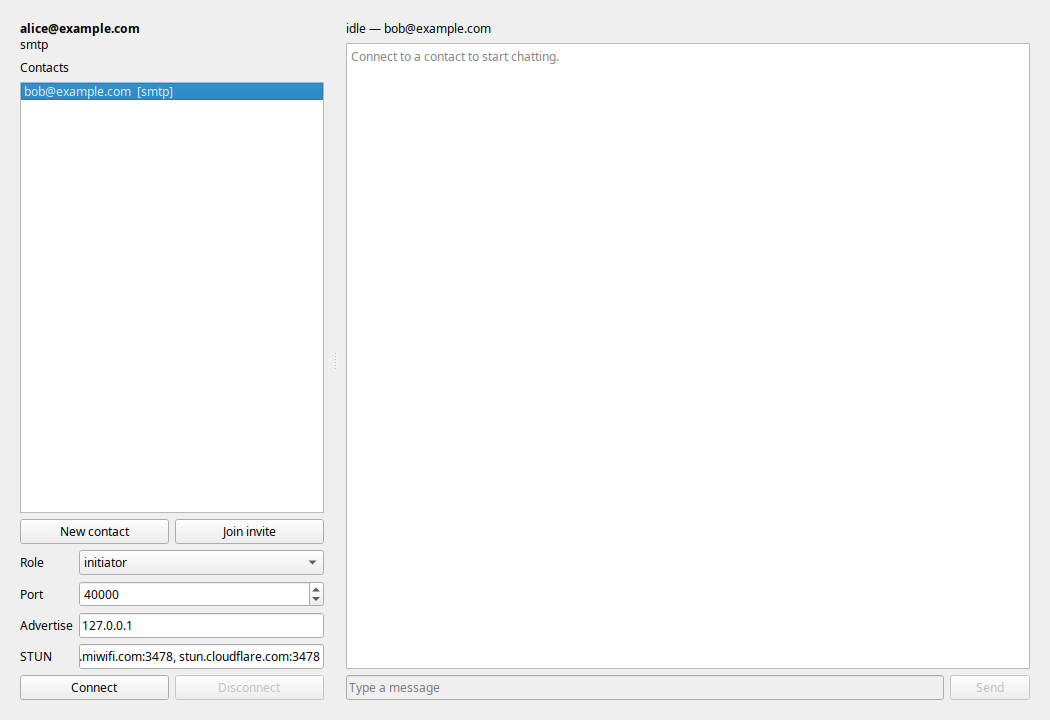
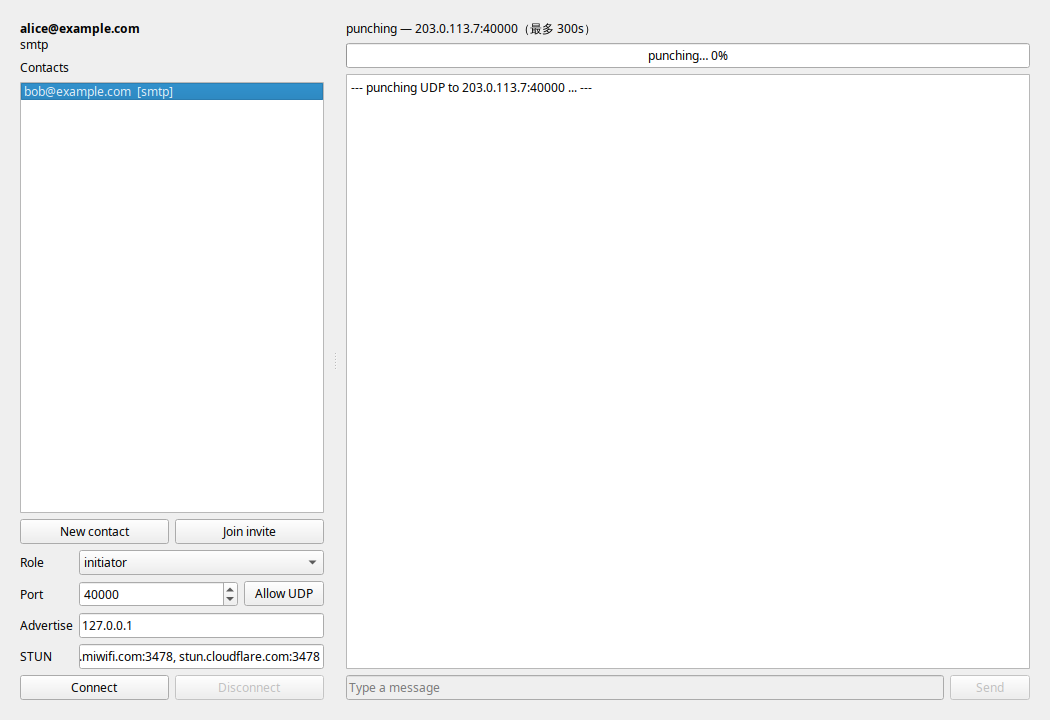
feat: punching progress and firewall helper

Changed region(s): [[0.3352, 0.0306, 0.5486, 0.1528], [0.2133, 0.7944, 0.3048, 0.8556], [0.6095, 0.0611, 0.701, 0.0917]]

diff --git a/p2p/gui/app.py b/p2p/gui/app.py
@@ -1,11 +1,15 @@
 from __future__ import annotations
 
+import os
+import shutil
 import sys
+import time
 from pathlib import Path
 
-from PyQt6.QtCore import Qt
+from PyQt6.QtCore import Qt, QTimer
 from PyQt6.QtWidgets import (
     QApplication,
+    QCheckBox,
     QComboBox,
     QDialog,
     QFileDialog,
@@ -18,6 +22,7 @@ from PyQt6.QtWidgets import (
     QListWidgetItem,
     QMessageBox,
     QPlainTextEdit,
+    QProgressBar,
     QPushButton,
     QSpinBox,
     QSplitter,
@@ -31,6 +36,43 @@ from p2p.runtime_env import apply_vault_env
 from p2p.vault import default_vault_path, load_vault, save_vault
 
 from .worker import SessionWorker
+
+
+class FirewallDialog(QDialog):
+    """Confirm opening one UDP port in the host firewall."""
+
+    def __init__(self, port: int, parent=None) -> None:
+        super().__init__(parent)
+        self.setWindowTitle("StrayPigeon — allow UDP port")
+        self.resize(500, 240)
+        self.allow_public = QCheckBox("Also allow on public networks (less safe)")
+        if os.name != "nt":
+            self.allow_public.setVisible(False)
+        if os.name == "nt":
+            detail = (
+                "Windows will show a UAC prompt. Only this UDP port is opened; "
+                "the firewall is not disabled."
+            )
+        else:
+            detail = (
+                "StrayPigeon cannot change the system firewall without root. "
+                "The next dialog shows the command to run yourself."
+            )
+        text = QLabel(f"Open inbound UDP {port} in the local firewall?\n\n{detail}")
+        text.setWordWrap(True)
+        cancel = QPushButton("Cancel")
+        cancel.clicked.connect(self.reject)
+        allow = QPushButton("Continue")
+        allow.setDefault(True)
+        allow.clicked.connect(self.accept)
+        buttons = QHBoxLayout()
+        buttons.addStretch(1)
+        buttons.addWidget(cancel)
+        buttons.addWidget(allow)
+        layout = QVBoxLayout(self)
+        layout.addWidget(text)
+        layout.addWidget(self.allow_public)
+        layout.addLayout(buttons)
 
 
 class VaultDialog(QDialog):
@@ -138,9 +180,15 @@ class MainWindow(QWidget):
         self.port.setValue(40000)
         self.advertise = QLineEdit("127.0.0.1")
         self.stun = QLineEdit("stun.miwifi.com:3478, stun.cloudflare.com:3478")
+        self.firewall_btn = QPushButton("Allow UDP")
+        self.firewall_btn.setToolTip("Open the local firewall for the UDP port above")
+        self.firewall_btn.clicked.connect(self._allow_firewall)
+        port_row = QHBoxLayout()
+        port_row.addWidget(self.port, 1)
+        port_row.addWidget(self.firewall_btn)
         settings = QFormLayout()
         settings.addRow("Role", self.role)
-        settings.addRow("Port", self.port)
+        settings.addRow("Port", port_row)
         settings.addRow("Advertise", self.advertise)
         settings.addRow("STUN", self.stun)
 
@@ -165,6 +213,16 @@ class MainWindow(QWidget):
 
         self.state_label = QLabel("idle")
         self.state_label.setWordWrap(True)
+        self.punch_bar = QProgressBar()
+        self.punch_bar.setRange(0, 300)
+        self.punch_bar.setValue(0)
+        self.punch_bar.setTextVisible(True)
+        self.punch_bar.setVisible(False)
+        self.punch_timer = QTimer(self)
+        self.punch_timer.setInterval(1000)
+        self.punch_timer.timeout.connect(self._tick_punch)
+        self._punch_start = 0.0
+        self._punch_window = 300.0
         self.chat = QPlainTextEdit()
         self.chat.setReadOnly(True)
         self.chat.setPlaceholderText("Connect to a contact to start chatting.")
@@ -182,6 +240,7 @@ class MainWindow(QWidget):
         right = QWidget()
         right_layout = QVBoxLayout(right)
         right_layout.addWidget(self.state_label)
+        right_layout.addWidget(self.punch_bar)
         right_layout.addWidget(self.chat, 1)
         right_layout.addLayout(message_row)
 
@@ -307,6 +366,7 @@ class MainWindow(QWidget):
             self.port,
             self.advertise,
             self.stun,
+            self.firewall_btn,
         ):
             widget.setEnabled(not locked)
         self.connect_btn.setEnabled(not locked and bool(self.contact_key))
@@ -318,7 +378,13 @@ class MainWindow(QWidget):
     def _on_state(self, payload: dict) -> None:
         state = str(payload.get("state") or "")
         peer = str(payload.get("peer") or "")
-        if state == "connected":
+        if state == "punching":
+            window = float(payload.get("window") or 300.0)
+            self.state_label.setText(f"punching — {peer}（最多 {window:.0f}s）")
+            self._append(f"--- punching UDP to {peer} ... ---")
+            self._start_punch_progress(window)
+        elif state == "connected":
+            self._stop_punch_progress()
             self.connected = True
             self.state_label.setText(f"connected — {peer}")
             self.input.setEnabled(True)
@@ -333,15 +399,37 @@ class MainWindow(QWidget):
         elif state == "bound":
             self.state_label.setText("bound — collecting candidates…")
         elif state == "stopped":
+            self._stop_punch_progress()
             self.state_label.setText("stopped")
         else:
             self.state_label.setText(state or "…")
+
+    def _start_punch_progress(self, window: float) -> None:
+        self._punch_start = time.monotonic()
+        self._punch_window = max(1.0, float(window))
+        self.punch_bar.setRange(0, int(self._punch_window))
+        self.punch_bar.setValue(0)
+        self.punch_bar.setFormat("punching… %p%")
+        self.punch_bar.setVisible(True)
+        self.punch_timer.start()
+
+    def _tick_punch(self) -> None:
+        elapsed = time.monotonic() - self._punch_start
+        self.punch_bar.setValue(min(int(elapsed), int(self._punch_window)))
+        if elapsed >= self._punch_window:
+            self.punch_timer.stop()
+
+    def _stop_punch_progress(self) -> None:
+        self.punch_timer.stop()
+        self.punch_bar.setVisible(False)
+        self.punch_bar.setValue(0)
 
     def _on_message(self, text: str, peer: str) -> None:
         name = self.current_peer or peer
         self._append(f"[{name}] {text}")
 
     def _on_error(self, code: str, detail: str) -> None:
+        self._stop_punch_progress()
         self._append(f"[error] {code} {detail}".rstrip())
         self.state_label.setText(f"error — {code}")
 
@@ -351,6 +439,7 @@ class MainWindow(QWidget):
         if worker is not None:
             worker.deleteLater()
         self.connected = False
+        self._stop_punch_progress()
         self.input.setEnabled(False)
         self.send_btn.setEnabled(False)
         self._lock_controls(False)
@@ -361,6 +450,7 @@ class MainWindow(QWidget):
     def _disconnect(self) -> None:
         if self.worker is None:
             return
+        self._stop_punch_progress()
         self.state_label.setText("disconnecting…")
         self.disconnect_btn.setEnabled(False)
         # Do not block the GUI thread. Session.stop() interrupts the
@@ -382,6 +472,92 @@ class MainWindow(QWidget):
         self.chat.appendPlainText(text)
         bar = self.chat.verticalScrollBar()
         bar.setValue(bar.maximum())
+
+    # ---- firewall helper ----------------------------------------------
+    def _allow_firewall(self) -> None:
+        port = int(self.port.value())
+        dialog = FirewallDialog(port, self)
+        if dialog.exec() != QDialog.DialogCode.Accepted:
+            return
+        if os.name == "nt":
+            self._run_windows_firewall(port, dialog.allow_public.isChecked())
+        else:
+            self._show_linux_firewall(port)
+
+    def _firewall_script(self) -> Path:
+        if getattr(sys, "frozen", False):
+            base = Path(getattr(sys, "_MEIPASS", Path.cwd()))
+        else:
+            base = Path(__file__).resolve().parents[2]
+        return base / "scripts" / "allow_firewall.ps1"
+
+    def _run_windows_firewall(self, port: int, allow_public: bool) -> None:
+        script = self._firewall_script()
+        if not script.exists():
+            QMessageBox.critical(
+                self, "StrayPigeon", f"Firewall helper not found:\n{script}"
+            )
+            return
+        profile = "Any" if allow_public else "Private,Domain"
+        args = (
+            f'-NoProfile -ExecutionPolicy Bypass -File "{script}" '
+            f'-Port {port} -Profile "{profile}"'
+        )
+        try:
+            import ctypes
+
+            rc = ctypes.windll.shell32.ShellExecuteW(
+                None, "runas", "powershell.exe", args, None, 1
+            )
+        except Exception as exc:  # noqa: BLE001
+            QMessageBox.critical(self, "StrayPigeon", f"Cannot start UAC helper: {exc}")
+            return
+        if rc <= 32:
+            QMessageBox.critical(self, "StrayPigeon", "Could not start the elevated helper.")
+            return
+        QMessageBox.information(
+            self,
+            "StrayPigeon",
+            "UAC prompt opened. Approve it to allow UDP port "
+            f"{port} ({profile}).",
+        )
+
+    def _show_linux_firewall(self, port: int) -> None:
+        if shutil.which("ufw"):
+            command = f"sudo ufw allow {port}/udp"
+        elif shutil.which("firewall-cmd"):
+            command = (
+                f"sudo firewall-cmd --add-port={port}/udp --permanent && "
+                "sudo firewall-cmd --reload"
+            )
+        elif shutil.which("nft"):
+            command = (
+                f"sudo nft add rule inet filter input udp dport {port} accept  "
+                "# adjust table/chain if needed"
+            )
+        else:
+            command = (
+                f"# No ufw/firewall-cmd/nft found.\n"
+                f"# Allow inbound UDP {port} in your firewall."
+            )
+        dialog = QDialog(self)
+        dialog.setWindowTitle("StrayPigeon — firewall command")
+        dialog.resize(620, 180)
+        edit = QPlainTextEdit(command)
+        edit.setReadOnly(True)
+        copy = QPushButton("Copy")
+        copy.clicked.connect(lambda: QApplication.clipboard().setText(command))
+        close = QPushButton("Close")
+        close.clicked.connect(dialog.accept)
+        buttons = QHBoxLayout()
+        buttons.addWidget(copy)
+        buttons.addStretch(1)
+        buttons.addWidget(close)
+        layout = QVBoxLayout(dialog)
+        layout.addWidget(QLabel("Run this in a terminal (root required):"))
+        layout.addWidget(edit, 1)
+        layout.addLayout(buttons)
+        dialog.exec()
 
     # ---- contact management -------------------------------------------
     def _save(self) -> bool:

diff --git a/p2p/session.py b/p2p/session.py
@@ -335,6 +335,13 @@ class Session:
                 self._emit("error", code="E_SYMMETRIC_NAT")
                 return 5
 
+            self._emit(
+                "state",
+                state="punching",
+                peer=fmt_addr(self.peer_addr),
+                candidates=len(self.peer_candidates),
+                window=self.cfg.punch_window,
+            )
             addr = punch(
                 self.sock,
                 [(c.ip, c.port) for c in self.peer_candidates],

diff --git a/README.md b/README.md
@@ -137,6 +137,12 @@ python3 -m p2p.gui
 4. 点 **Connect**；
 5. 连上后输入消息，Enter 或 **Send**；**Disconnect** 断开。
 
+- 连接过程会依次显示 `bound → peer ready → punching`；punching 有最多 300 秒的进度条；
+- 点 **Allow UDP** 可以放行本机防火墙的当前 UDP 端口：
+  - **Windows**：弹 UAC，默认只开 `Private/Domain`；勾选后可选 public；
+  - **Linux**：显示 ufw / firewalld / nft 命令，复制到终端执行；
+  - 只开当前 UDP 端口，**不会关闭防火墙**。
+
 两台机器的常用组合：
 
 ```text
@@ -161,7 +167,7 @@ python3 scripts/run_vault.py --vault ~/.config/email-p2p/vault.json \
 - **38 个单元测试通过**；
 - 同机加密 demo：`PASS`；
 - 真实 163（Windows）↔ 126（Linux）跨提供商 SMTP 加密聊天：`CONNECTED`；
-- GUI MVP：vault 解锁、contact 列表、New/Join、连接、聊天、Disconnect；Linux offscreen smoke `PASS`；
+- GUI MVP：vault 解锁、contact 列表、New/Join、连接、聊天、Disconnect、punching 进度、Allow UDP 防火墙辅助；Linux offscreen smoke `PASS`；
 - 尚未完成：GUI 的 identity 向导、PyInstaller GUI exe/安装包、托盘/通知、文件传输、自动重连；
 - **未做安全审计**。
 
@@ -182,6 +188,7 @@ python3 scripts/run_vault.py --vault ~/.config/email-p2p/vault.json \
 - **NAT 映射会超时**：默认 15 秒 keepalive；如果运营商回收更短，改 `--keepalive 5`。
 - **无消息持久化**：聊天记录只在当前进程里，JSONL 日志不保存消息正文。
 - **无文件传输/语音/多设备**。
+- **Allow UDP 只处理本机防火墙**：路由器、NAT、对称 NAT 不在它范围内；Windows 规则默认只对 Private/Domain 生效。
 - **元数据不保护**：邮件服务商知道谁在何时通信。
 - **GUI 仍是 MVP**：identity 向导、安装包、托盘/通知在路线图上。
 
@@ -209,6 +216,7 @@ scripts/
   setup.py            # 只配置 identity
   contact.py          # new / join / list
   run_vault.py        # CLI 运行
+  allow_firewall.ps1  # Windows UDP 端口放行（UAC）
   pair_test.py        # 两个 vault 非交互测试
   ...
 tests/                # 38 个测试
